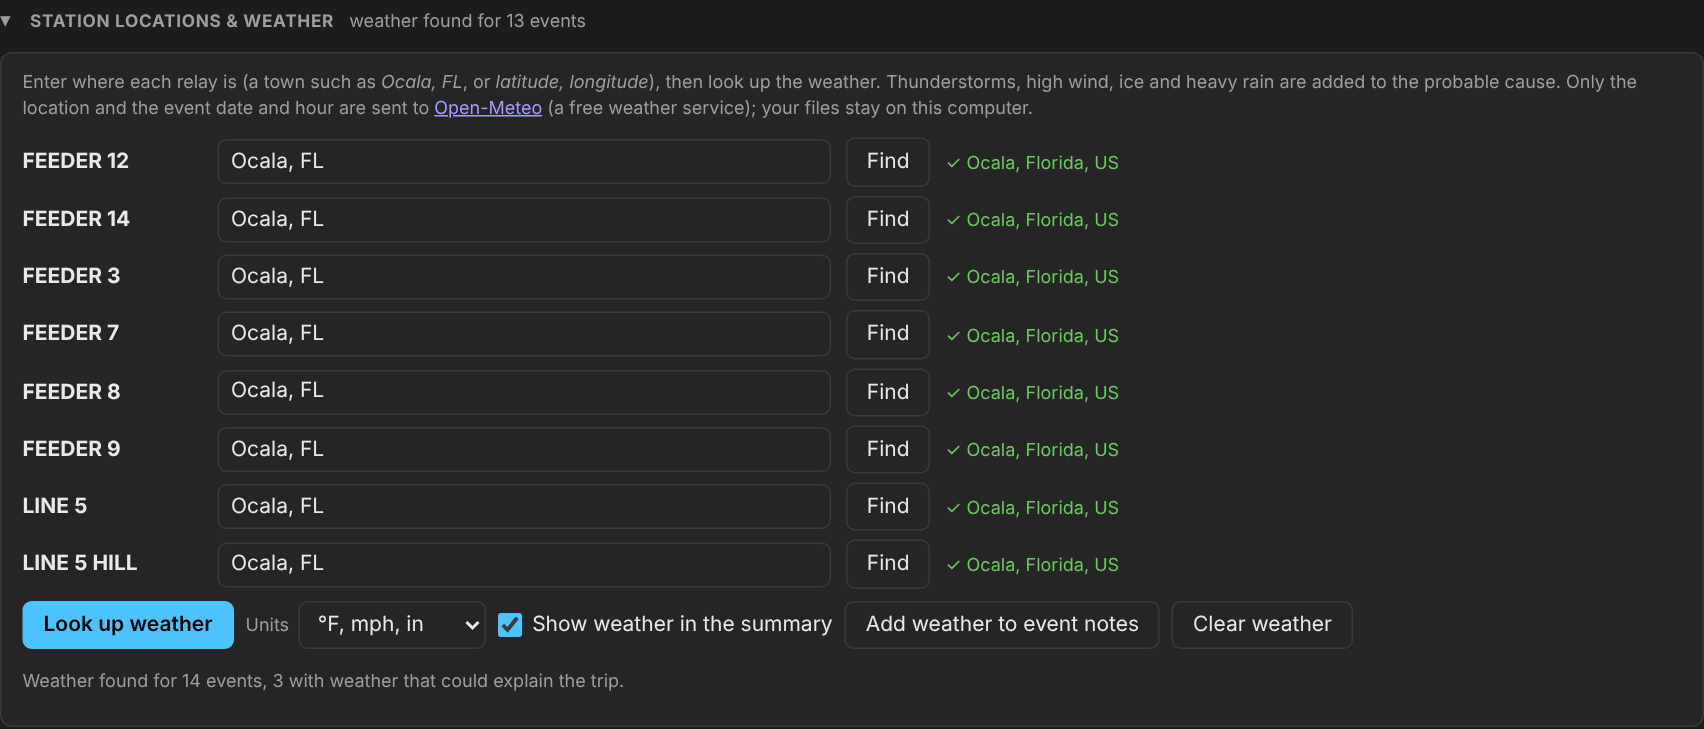
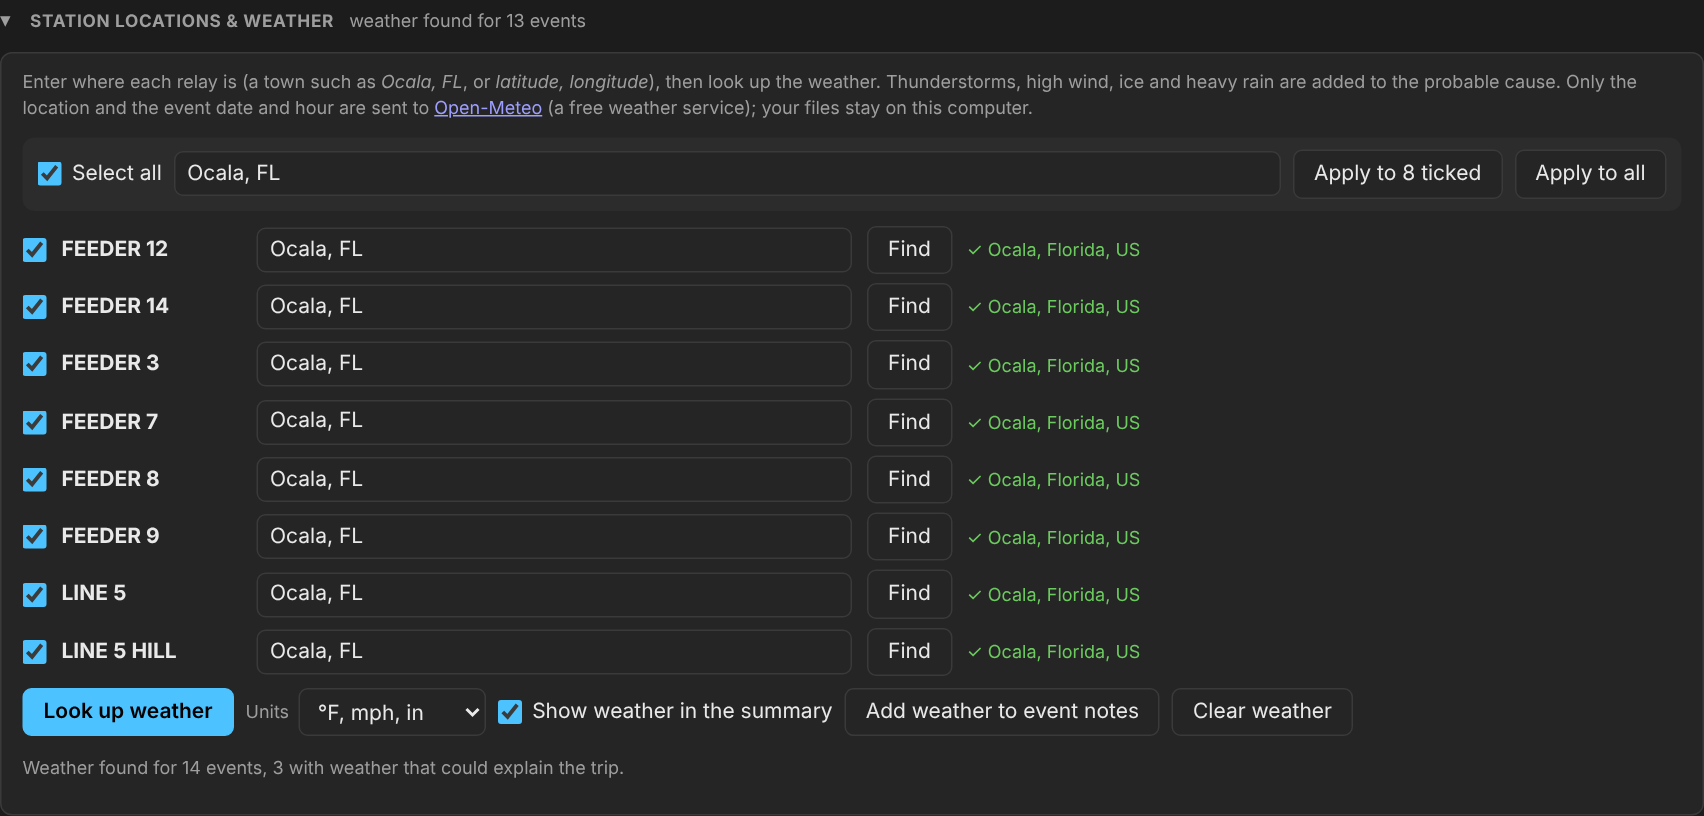
Weather: set one location for several relays; web page is the main download; narrow-screen fixes
Claude-Session: https://claude.ai/code/session_01BS34QgFyAAVe6uV8tbu1Yn

diff --git a/web/app.html b/web/app.html
@@ -170,7 +170,7 @@ dialog::backdrop { background: rgba(0,0,0,.45); }
 .dlg-body kbd { font-family: inherit; font-size: 12px; border: 1px solid var(--border); border-bottom-width: 2px; border-radius: 4px; padding: 0 5px; background: var(--surface-2); }
 
 /* page tabs */
-.tabs { display: flex; gap: 4px; border-bottom: 1px solid var(--border); margin: 0 0 14px; }
+.tabs { display: flex; gap: 4px; border-bottom: 1px solid var(--border); margin: 0 0 14px; overflow-x: auto; scrollbar-width: none; }
 .tabs button { border: 0; border-bottom: 2.5px solid transparent; border-radius: 6px 6px 0 0; background: transparent; padding: 7px 16px;
   font-weight: 600; color: var(--muted); margin-bottom: -1px; }
 .tabs button:hover { background: var(--surface-2); color: var(--text); }
@@ -265,7 +265,10 @@ input[type="range"] { width: 100%; accent-color: var(--accent); margin: 6px 0 0;
 #wPins .x { border: 0; background: transparent; min-height: 24px; padding: 0 7px; color: var(--muted); font-size: 16px; }
 #wEventNote { height: 64px; }
 .wx-box { padding: 10px 14px; margin-top: 6px; }
-.wx-relays { display: grid; grid-template-columns: minmax(120px, auto) minmax(200px, 1fr) auto minmax(160px, 1.2fr); gap: 6px 10px; align-items: center; }
+.wx-relays { display: grid; grid-template-columns: auto minmax(120px, auto) minmax(200px, 1fr) auto minmax(160px, 1.2fr); gap: 6px 10px; align-items: center; }
+.wx-relays input[type="checkbox"] { width: 16px; height: 16px; accent-color: var(--accent); margin: 0; }
+.wx-bulk { display: flex; flex-wrap: wrap; gap: 8px; align-items: center; padding: 8px 10px; margin-bottom: 10px; border-radius: 8px; background: var(--surface-2); }
+.wx-bulk input[type="text"] { flex: 1 1 220px; min-width: 0; }
 .wx-relays input { width: 100%; }
 .wx-relays .st { font-size: 12px; color: var(--muted); min-width: 0; overflow: hidden; text-overflow: ellipsis; white-space: nowrap; }
 .wx-relays .st.ok { color: var(--ok); } .wx-relays .st.bad { color: var(--warn); }
@@ -283,8 +286,12 @@ input[type="range"] { width: 100%; accent-color: var(--accent); margin: 6px 0 0;
   .wv-main, .wv-lower { grid-template-columns: 1fr; }
   .evlist li { grid-template-columns: 28px 1fr; }
   .evlist li > input, .evlist li > button { grid-column: 2; }
-  .wx-relays { grid-template-columns: 1fr auto; }
-  .wx-relays .st { grid-column: 1 / -1; }
+  .wx-relays { grid-template-columns: auto 1fr auto; }
+  .wx-relays > b { grid-column: 2 / -1; }
+  .wx-relays .st { grid-column: 2 / -1; }
+  .tabs button { padding: 7px 10px; }
+  .tabs .badge { display: none; }
+  .wx-bulk input { width: 100%; }
   .verdict { grid-template-columns: 1fr; }
 }
 @media (max-width: 1000px) and (min-width: 761px) {
@@ -387,6 +394,12 @@ input[type="range"] { width: 100%; accent-color: var(--accent); margin: 6px 0 0;
       <p class="hint" style="margin-top:0">Enter where each relay is (a town such as <i>Ocala, FL</i>, or <i>latitude, longitude</i>), then look up the weather.
         Thunderstorms, high wind, ice and heavy rain are added to the probable cause. Only the location and the event date and hour are sent to
         <a href="https://open-meteo.com/" target="_blank" rel="noopener">Open-Meteo</a> (a free weather service); your files stay on this computer.</p>
+      <div class="wx-bulk" role="group" aria-label="Set a location for several relays">
+        <label class="check"><input type="checkbox" id="wxAll"> Select all</label>
+        <input type="text" id="wxBulkText" placeholder="One location for the ticked relays, e.g. Ocala, FL" aria-label="Location for the ticked relays">
+        <button id="wxBulkApply">Apply to ticked</button>
+        <button id="wxBulkAll" title="Use this location for every relay">Apply to all</button>
+      </div>
       <div id="wxRelays" class="wx-relays"></div>
       <div class="row">
         <button class="accent" id="wxGo">Look up weather</button>
@@ -584,7 +597,7 @@ input[type="range"] { width: 100%; accent-color: var(--accent); margin: 6px 0 0;
     </table>
     <h3>Notes and weather</h3>
     <p><b>Event notes &amp; waveforms</b> (under the summary) lists every event: type a note and it's added to that event in the summary and exports.
-       <b>Station locations &amp; weather</b>: enter where each relay is (a town or latitude, longitude) and click <b>Look up weather</b>. The weather at the
+       <b>Station locations &amp; weather</b>: enter where each relay is (a town or latitude, longitude), or tick several relays (or <b>Select all</b>) and set one location for them all, then click <b>Look up weather</b>. The weather at the
        hour of each event is added, and thunderstorms, high wind, ice/snow, heavy rain or extreme heat are listed as possible causes. Only the location and
        the event date go to Open-Meteo (a free weather service). <b>Add weather to event notes</b> copies it into the notes.</p>
     <h3>Event types</h3>
@@ -1004,6 +1017,39 @@ const wxCache = {};
 $("wxUnits").value = store.get("wxUnits", "us");
 $("wxOn").checked = store.get("wxOn", true);
 function wxStatus(t) { $("wxStatus").textContent = t; }
+const wxSel = new Set();
+const relayKeys = () => (state.cache ? state.cache.choices.relays.map(([k]) => k.toUpperCase()) : []);
+function syncAll() {
+  const keys = relayKeys(), n = keys.filter((k) => wxSel.has(k)).length;
+  $("wxAll").checked = keys.length > 0 && n === keys.length;
+  $("wxAll").indeterminate = n > 0 && n < keys.length;
+  $("wxBulkApply").textContent = n ? `Apply to ${n} ticked` : "Apply to ticked";
+  $("wxBulkApply").disabled = !n;
+}
+$("wxAll").addEventListener("change", () => {
+  for (const k of relayKeys()) if ($("wxAll").checked) wxSel.add(k); else wxSel.delete(k);
+  renderRelays();
+});
+async function bulkSet(keys) {
+  const text = $("wxBulkText").value.trim();
+  if (!keys.length) { wxStatus("Tick the relays to change first (or use Apply to all)"); return; }
+  if (!text) { wxStatus("Type a town (e.g. Ocala, FL) or latitude, longitude first"); $("wxBulkText").focus(); return; }
+  wxStatus("Searching…");
+  try {
+    const res = await WX.geocode(text);
+    if (!res.length) { wxStatus("Not found: try 'Town, ST' or 'lat, lon'"); return; }
+    const all = store.get("locations", {});
+    for (const k of keys) all[k] = { label: res[0].label, lat: res[0].lat, lon: res[0].lon, typed: text };
+    store.set("locations", all);
+    wxStatus(`Set ${keys.length} relay${keys.length === 1 ? "" : "s"} to ${res[0].label}` +
+             (res.length > 1 ? ` (other matches: ${res.slice(1, 4).map((r) => r.label).join("; ")}; add the state or use lat, lon to pick another)` : "") +
+             ". Now click Look up weather.");
+    renderRelays();
+  } catch (e) { wxStatus("Couldn't reach the location service (" + (e.message || e) + ")"); }
+}
+$("wxBulkApply").addEventListener("click", () => bulkSet(relayKeys().filter((k) => wxSel.has(k))));
+$("wxBulkAll").addEventListener("click", () => bulkSet(relayKeys()));
+$("wxBulkText").addEventListener("keydown", (e) => { if (e.key === "Enter") { e.preventDefault(); bulkSet(relayKeys().filter((k) => wxSel.has(k))); } });
 function allItems() { return state.cache ? core.prepareView(state.cache.events, state.cache.rdb, {}).items : []; }
 function renderRelays() {
   const box = $("wxRelays");
@@ -1013,6 +1059,9 @@ function renderRelays() {
   if (!relays.length) { box.innerHTML = '<span class="hint">Load event files to list their relays here.</span>'; return; }
   for (const r of relays) {
     const key = r.toUpperCase();
+    const cb = document.createElement("input"); cb.type = "checkbox"; cb.dataset.relay = key; cb.setAttribute("aria-label", `Select ${r}`);
+    cb.checked = wxSel.has(key);
+    cb.addEventListener("change", () => { if (cb.checked) wxSel.add(key); else wxSel.delete(key); syncAll(); });
     const lab = document.createElement("b"); lab.textContent = r;
     const inp = document.createElement("input"); inp.type = "text"; inp.placeholder = "Town, ST  or  lat, lon";
     inp.value = locs[key] ? locs[key].typed || locs[key].label : ""; inp.setAttribute("aria-label", `Location of ${r}`);
@@ -1039,8 +1088,9 @@ function renderRelays() {
     btn.addEventListener("click", find);
     inp.addEventListener("keydown", (e) => { if (e.key === "Enter") { e.preventDefault(); find(); } });
     inp.addEventListener("change", find);
-    box.append(lab, inp, btn, st);
+    box.append(cb, lab, inp, btn, st);
   }
+  syncAll();
   const n = Object.keys(store.get("wxResults", {})).length;
   $("wxHint").textContent = n ? `weather found for ${n} event${n === 1 ? "" : "s"}` : "optional: weather at the time of each event";
 }

diff --git a/tests/browser_test.js b/tests/browser_test.js
@@ -135,8 +135,9 @@ const ok = (name, cond, extra) => { results.push(`${cond ? "PASS" : "FAIL"}  ${n
   await page.route("https://api.open-meteo.com/**", wxRoute);
   await page.route("https://archive-api.open-meteo.com/**", wxRoute);
   await page.click("#wxPanel summary");
-  const locs = page.locator("#wxRelays input");
-  for (let i = 0; i < await locs.count(); i++) { await locs.nth(i).fill("Ocala, FL"); await locs.nth(i).press("Enter"); }
+  await page.check("#wxAll");
+  await page.fill("#wxBulkText", "Ocala, FL");
+  await page.click("#wxBulkApply");
   await page.waitForFunction(() => [...document.querySelectorAll("#wxRelays .st")].every((x) => x.textContent.includes("Ocala")), null, { timeout: 5000 }).catch(() => {});
   await page.click("#wxGo");
   await page.waitForFunction(() => /Weather found for \d+/.test(document.getElementById("wxStatus").textContent), null, { timeout: 8000 }).catch(() => {});

diff --git a/scripts/screenshots.js b/scripts/screenshots.js
@@ -29,8 +29,9 @@ fs.mkdirSync(OUT, { recursive: true });
 
   // weather
   await page.click("#wxPanel summary");
-  const locs = page.locator("#wxRelays input");
-  for (let i = 0; i < await locs.count(); i++) { await locs.nth(i).fill("Ocala, FL"); await locs.nth(i).press("Enter"); }
+  await page.check("#wxAll");
+  await page.fill("#wxBulkText", "Ocala, FL");
+  await page.click("#wxBulkApply");
   await page.waitForTimeout(400);
   await page.click("#wxGo");
   await page.waitForFunction(() => /Weather found/.test(document.getElementById("wxStatus").textContent));

diff --git a/web/wave_ui.js b/web/wave_ui.js
@@ -534,7 +534,7 @@ function create(ctx) {
   let lay = null;
   function redraw() {
     if (!st.rec) return;
-    const W = Math.max(320, canvas.parentElement.clientWidth);
+    const W = Math.max(240, canvas.parentElement.clientWidth);
     const m = model();
     const l = layout(m, W);
     const dpr = window.devicePixelRatio || 1;

diff --git a/README.md b/README.md
@@ -10,8 +10,9 @@ overcurrent elements against the relay's own settings.
 
 | | |
 |---|---|
-| **[⬇ Windows program](https://github.com/kefirman9000/sel-trip-analyzer/releases/latest/download/SEL_Trip_Analyzer.exe)** | `SEL_Trip_Analyzer.exe`: download and double-click, no install |
-| **[▶ Browser version](https://kefirman9000.github.io/sel-trip-analyzer/)** | Opens in your browser on any computer, nothing to install. [Download it](https://github.com/kefirman9000/sel-trip-analyzer/releases/latest/download/SEL_Trip_Analyzer.html) to use offline |
+| **[▶ Open it online](https://kefirman9000.github.io/sel-trip-analyzer/)** | Runs in your browser on any computer, nothing to install |
+| **[⬇ Download SEL_Trip_Analyzer.html](https://github.com/kefirman9000/sel-trip-analyzer/releases/latest/download/SEL_Trip_Analyzer.html)** | The whole program in one file: double-click it to use it offline (Chrome, Edge, Firefox, Safari) |
+| [Windows program (optional)](https://github.com/kefirman9000/sel-trip-analyzer/releases/latest/download/SEL_Trip_Analyzer.exe) | The same page in its own window, with Windows Save dialogs and automatic updates |
 
 Latest version: see [Releases](https://github.com/kefirman9000/sel-trip-analyzer/releases/latest) · [Report a problem or suggest something](https://github.com/kefirman9000/sel-trip-analyzer/issues/new)
 
@@ -36,23 +37,29 @@ Latest version: see [Releases](https://github.com/kefirman9000/sel-trip-analyzer
   grouped, and **repeat trips** on the same relay flagged.
 - **Real Word (.docx) export** in both versions, with a waveform picture for
   every event that has one.
-- **One program.** The Windows program and the browser version are now the
-  same page, so they always give the same answers.
+- **One program.** Everything is now one web page you can use online or
+  download. The optional Windows program shows that same page in its own window.
 
 ## Get started
 
-1. **Download** `SEL_Trip_Analyzer.exe` and put it in a folder you own, such as
-   Desktop or Documents. Avoid Program Files, because the program updates
-   itself in place.
-2. **Open it.** The first time, Windows may say *"Windows protected your PC"*.
-   Click **More info → Run anyway**. This appears because the program isn't
-   code-signed. It opens in its own window (it uses Microsoft Edge, which comes
-   with Windows, to draw the window; nothing is sent anywhere).
-3. **Drag your event files** (or a whole folder) onto the window, or onto the
-   program's icon. The summary appears straight away.
+1. **[Open it online](https://kefirman9000.github.io/sel-trip-analyzer/)**, or
+   **download [SEL_Trip_Analyzer.html](https://github.com/kefirman9000/sel-trip-analyzer/releases/latest/download/SEL_Trip_Analyzer.html)**
+   and double-click it. It works offline, on Windows, Mac or Linux, and your
+   files are read on your computer and never uploaded.
+2. **Drag your event files** (or a whole folder) onto the page. The summary
+   appears straight away.
 
 Want to see it work first? Click **Try samples**, or download the
 [sample files](https://github.com/kefirman9000/sel-trip-analyzer/releases/latest/download/SEL_sample_files.zip).
+
+### Optional: the Windows program
+
+`SEL_Trip_Analyzer.exe` is the same page in its own window. It adds Windows
+**Save As** dialogs, opening files dropped on its icon, and **automatic
+updates**. Put it in a folder you own (Desktop or Documents, not Program
+Files). The first time, Windows may say *"Windows protected your PC"*: click
+**More info → Run anyway** (the program isn't code-signed). It uses Microsoft
+Edge, which comes with Windows, to draw its window.
 
 ## Which files to use
 
@@ -134,8 +141,10 @@ your computer, appear in the event's details, and are searchable. The
 
 ### Weather at the time of the event
 
-Open **Station locations & weather**, type where each relay is (a town such as
-*Ocala, FL*, or *latitude, longitude*) and click **Look up weather**. Each event
+Open **Station locations & weather** and type where each relay is (a town such
+as *Ocala, FL*, or *latitude, longitude*). To set several at once, tick them (or
+**Select all**), type one location and click **Apply to ticked** (or **Apply to
+all**). Then click **Look up weather**. Each event
 gets a *Weather* line (conditions, temperature, wind and gusts, rain or snow
 for that hour), and when the weather could explain the trip it's added to the
 probable cause:
@@ -188,21 +197,22 @@ or one of the **reference waveforms**, and step through them with ◀ ▶
 
 ![Reference waveforms](docs/screenshots/reference.png)
 
-## Browser version
+## Web page or Windows program?
 
-Can't run `.exe` files, or not on Windows? **[Open the browser version](https://kefirman9000.github.io/sel-trip-analyzer/)**,
-or [download SEL_Trip_Analyzer.html](https://github.com/kefirman9000/sel-trip-analyzer/releases/latest/download/SEL_Trip_Analyzer.html)
-and double-click it to use it offline. It works in Chrome, Edge, Firefox and
-Safari, on Windows, Mac or Linux. It is the same program as the Windows
-version; your files are read inside the browser tab and never uploaded.
+They are the same program and give the same results. The differences:
 
-The only differences: the browser version saves exports to your Downloads
-folder (the Windows program asks where), and to update it you download the new
-file (the online copy is always current).
+| | Web page (`.html` or online) | Windows program (`.exe`) |
+|---|---|---|
+| Runs on | Any computer with a browser | Windows |
+| Saving exports | To your Downloads folder | Asks where, with a Save As dialog |
+| Opening files | Drag onto the page, or Add files | Also drag onto the program's icon |
+| Updates | The online copy is always current; a downloaded copy shows a banner with a link to the new file | Installs the update itself when you say yes |
 
 ## Updates
 
-The Windows program checks for a new version when it starts. When one is
+The online version is always the latest. A downloaded `.html` checks GitHub
+when it opens and shows a banner when there's a newer file to download. The
+Windows program checks for a new version when it starts. When one is
 available, a banner appears and **Check for updates** turns into **Update to
 vX.Y.Z**. Click **Install and restart**: it downloads the new version, checks
 it hasn't been tampered with, and reopens. Your notes and settings are kept.
